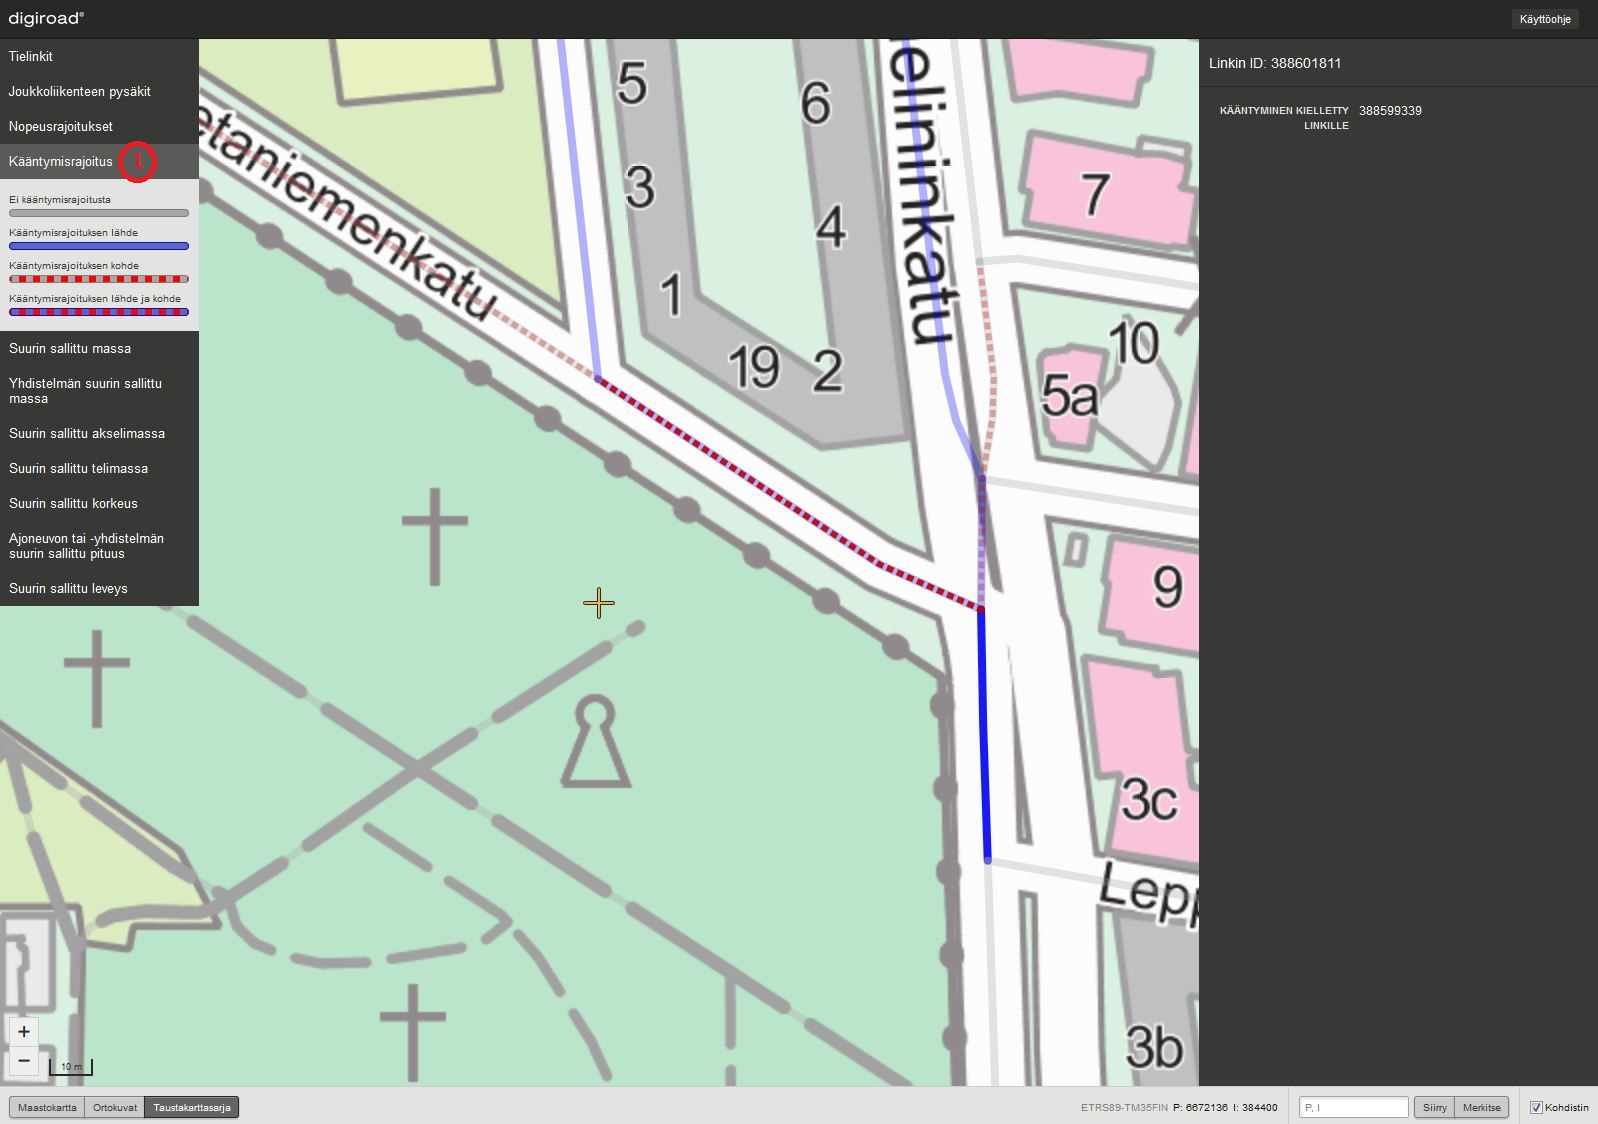
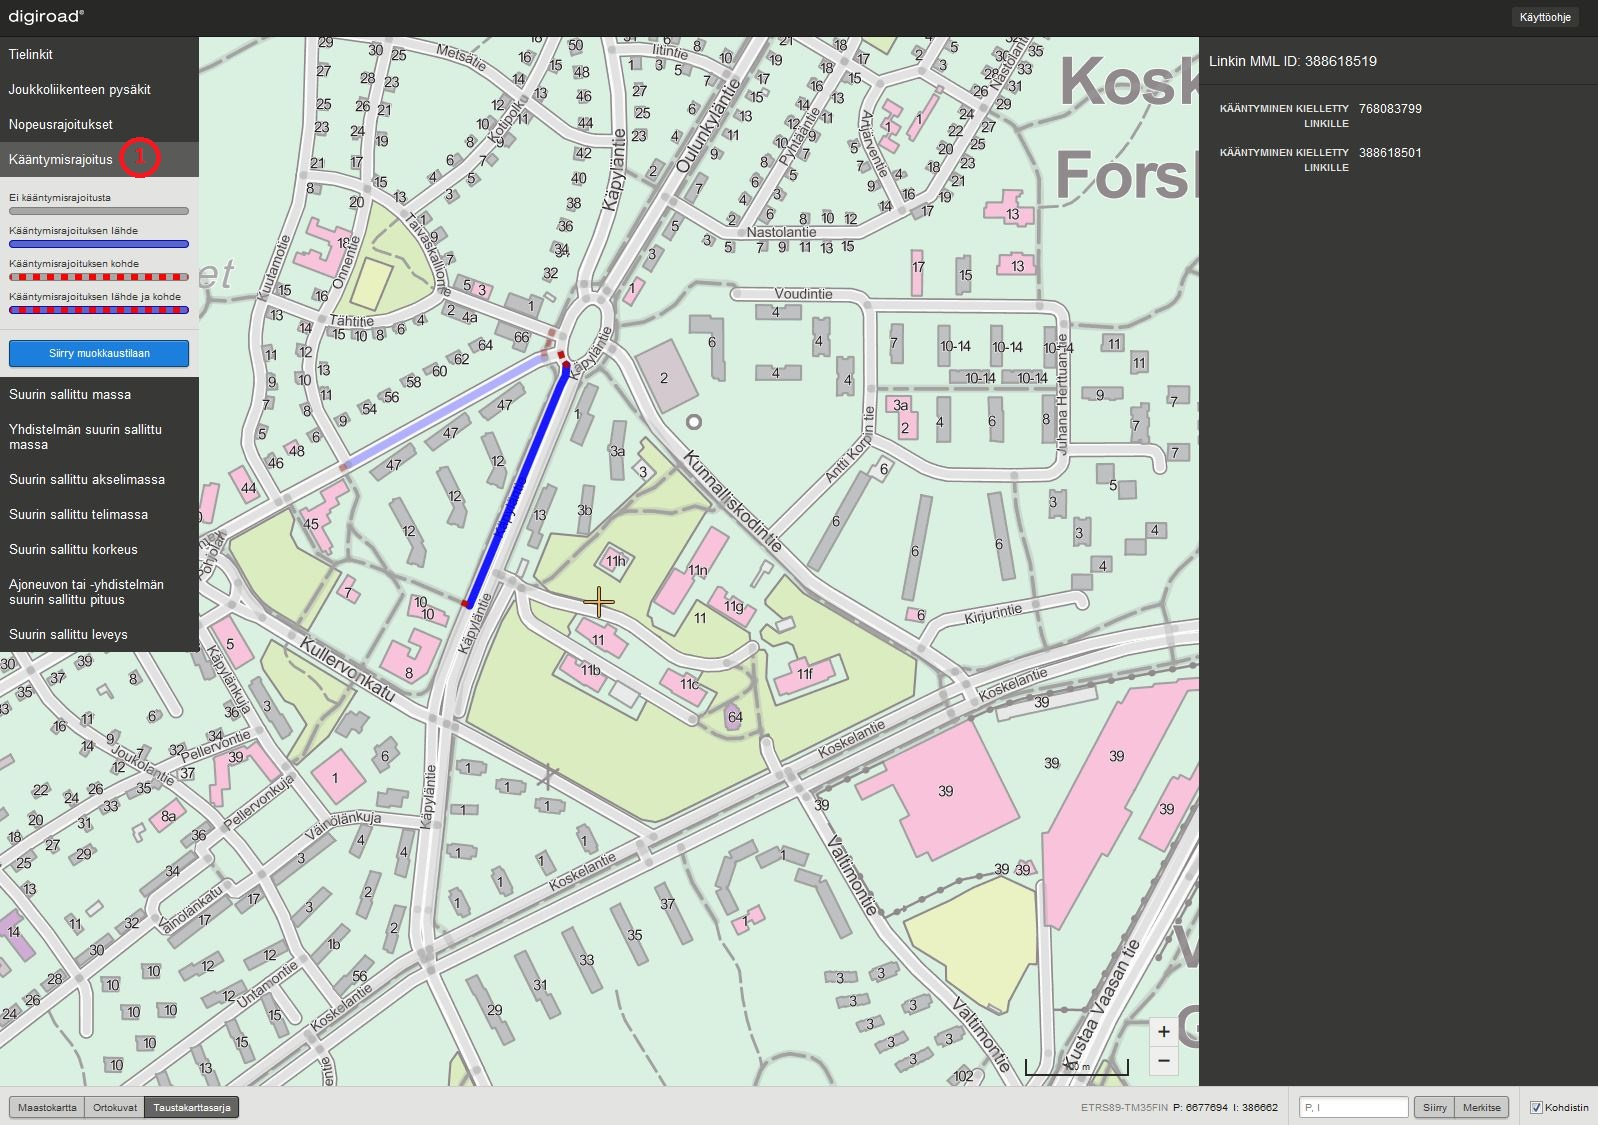
update manual

diff --git a/UI/manual/index.md b/UI/manual/index.md
@@ -73,10 +73,17 @@ http://www.digiroad.fi/
 Pys&auml;kkeihin liittyv&auml;t asiat:
 pysakit@digiroad.fi
 
-1.2 Usein kysytyt kysymykset
------------------------------
+1.2 Usein kysytyt kysymykset ja ongelmatilanteet
+------------------------------------------------
 
 Digiroad 2 -sovelluksen k&auml;yt&ouml;n usein kysytyt kysymykset on koottu Digiroad-sivustolle. Usein kysyttyihin kysymyksiin p&auml;&auml;set [t&auml;&auml;lt&auml;.](http://www.digiroad.fi/yllapito/fi_FI/pysakkiohjeet/ )
+
+####Ongelmatilanteet#####
+
+Sovelluksen toimiessa virheellisesti (esim. kaikki aineistot eiv&auml;t lataudu oikein) toimi seuraavasti:
+
+1. Lataa sivu uudelleen n&auml;pp&auml;imist&ouml;n F5-painikkeella.
+2. Jos sivun lataaminen uudelleen ei korjaa ongelmaa, ota yhteytt&auml; DR2-operaattoriin: info@digiroad.fi 
 
 2. Kirjautuminen Digiroad-sovellukseen
 --------------------------------------
@@ -305,7 +312,7 @@ _Nopeusrajoitusten visualisointi._
 
 Yksitt&auml;isen k&auml;&auml;ntymisrajoituksen voi valita klikkaamalla kartalta sen geometriaa.  Valittu k&auml;&auml;ntymisrajoitus (4) korostuu kartalla ja sen ominaisuustiedot avautuvat ominaisuustieton&auml;kym&auml;&auml;n (6).
 
-![K&auml;&auml;ntymisrajoituksen visualisointi] (k44.JPG)
+![K&auml;&auml;ntymisrajoituksen visualisointi](k44.JPG)
 
 _K&auml;&auml;ntymisrajoituksen tietojen katselu._
 
@@ -547,12 +554,32 @@ Uusi nopeusrajoitus tallennetaan Tallenna-painikkeesta. Tallentamisen j&auml;lke
 
 Nopeusrajoituksen katkaisemisen voi perua Peruuta-Painikkeesta, joka palauttaa alkuper&auml;isen nopeusrajoituksen voimaan. 
 
-5.4 Suurin sallittu -valinta
+5.4 K&auml;&auml;ntymisrajoitukset
+----------------------------------
+
+5.4.1 K&auml;&auml;ntymisrajoitusten muokkaus
+---------------------------------------------
+
+K&auml;&auml;ntymisrajoituksia muokataan muokkaustilassa. Muokattava kohde valitaan klikkaamalla sen geometriaa (4). Tietoja muokataan ominaisuustieton&auml;kym&auml;ss&auml; (6). Muutokset tallennetaan painamalla Tallenna-painiketta (8). Ennen Tallenna-painikkeen painamista muutokset voi peruuttaa painamalla Peruuta-painiketta (9). Tallenna- ja Peruuta -painikkeet eiv&auml;t ole aktiivisina, jos muutoksia ei ole tehty. Jos muutoksia on tehty eik&auml; niit&auml; ole tallennettu tai peruutettu ja siirryt&auml;&auml;n pois painorajoituksen valinnasta, sovellus antaa muutos-dialogin. Muutos-dialogi kertoo k&auml;ytt&auml;j&auml;lle, ett&auml; muutoksia on tehty ja ne tulee tallentaa tai peruuttaa ennen kuin voi jatkaa.
+
+![K&auml;&auml;ntymisrajoitusten muokkaus.](k28.jpg)
+
+_K&auml;&auml;ntymisrajoitusten muokkaus._
+
+####Uuden k&auml;&auml;ntymisrajoituksen lis&auml;&auml;minen####
+
+Uusi k&auml;&auml;ntymisrajoitus lis&auml;t&auml;&auml;n valitsemalla kartalta se tielinkki, joka on k&auml;&auml;ntymisrajoituksen l&auml;hde. Sivun oikeaan laitaan avautuu ominaisuustieton&auml;kym&auml;, jossa on n&auml;kyviss&auml; valitulta tielinkilt&auml; l&auml;htev&auml;t tielinkit. Ominaisuustieton&auml;kym&auml;st&auml; valitaan ne tielinkit, joille valitulta tielinkilt&auml; ei saa k&auml;&auml;nty&auml;. Valitsemalla k&auml;&auml;ntymisrajoituksen kohde uusi k&auml;&auml;ntymisrajoitus visualisoituu kartalle.
+ 
+####Uuden k&auml;&auml;ntymisrajoituksen poistaminen####
+
+K&auml;&auml;ntymisrajoituksen voi poistaa valitsemalla sen kartalta. Ominaisuustieton&auml;kym&auml;&auml;n avautuu k&auml;&auml;ntymisrajoituksen kohteet. Poistamalla valinnan kaikista k&auml;&auml;ntymisrajoituksen kohteista ja tallentamalla, k&auml;&auml;ntymisrajoitus poistuu.
+
+5.5 Suurin sallittu -valinta
 ----------------------------
 
 Suurin sallittu -valintoja ovat: suurin sallittu massa, yhdistelm&auml;n suurin sallittu massa, suurin sallittu akselimassa, suurin sallittu telimassa, suurin sallittu korkeus, ajoneuvon- tai yhdistelm&auml;n suurin sallittu pituus ja suurin sallittu leveys.
 
-5.4.1 Suurin sallittu -valinnan ominaisuustietojen muokkaus
+5.5.1 Suurin sallittu -valinnan ominaisuustietojen muokkaus
 ----------------------------------------------------------
 
 Toistaiseksi suurin sallittu -valintoja voi muokata vain operaattorik&auml;ytt&auml;j&auml;. Muilla k&auml;ytt&auml;jill&auml; ei ole muokkaustilaa k&auml;yt&ouml;ss&auml;&auml;n.
@@ -565,7 +592,7 @@ Huom! Rajoituksen arvokent&auml;ss&auml; muiden kuin numeroarvojen tallentaminen
 
 _Suurin sallittu -valinnan muokkaus._
 
-5.4.2 Suurin sallittu -kohteen poistaminen
+5.5.2 Suurin sallittu -kohteen poistaminen
 -------------------------------------------
 
 Tielinkin suurin sallittu -kohde poistetaan ominaisuustieton&auml;kym&auml;ss&auml; (6) valitsemalla Rajoitus-kohdasta "Ei rajoitusta".
@@ -574,7 +601,7 @@ Tielinkin suurin sallittu -kohde poistetaan ominaisuustieton&auml;kym&auml;ss&au
 
 _Suurin sallittu -kohteen poistaminen._
 
-5.4.3 Uuden suurin sallittu -kohteen lis&auml;&auml;minen
+5.5.3 Uuden suurin sallittu -kohteen lis&auml;&auml;minen
 -----------------------------------------------------------
 
 Tielinkille voi lis&auml;t&auml; suurin sallittu -kohteen valitsemalla sen geometrian (4) Suurin sallittu -muokkaustilassa. Ominaisuustieton&auml;kym&auml;&auml;n (6) avautuu tielinkin suurin sallittu -kohteen tiedot. Valitaan "Rajoitus" ja sy&ouml;tet&auml;&auml;n suurin sallittu arvo sy&ouml;tekentt&auml;&auml;n. Suurin sallittu arvo tallennetaan painamalla Tallenna (8). Uuden suurin sallittu -kohteen lis&auml;&auml;misen voi perua Peruuta-painikkeella.
@@ -583,7 +610,7 @@ Tielinkille voi lis&auml;t&auml; suurin sallittu -kohteen valitsemalla sen geome
 
 _Suurin sallittu -kohteen lis&auml;&auml;minen._
 
-5.4.4 Suurin sallittu -kohteen katkaisu
+5.5.4 Suurin sallittu -kohteen katkaisu
 ----------------------------------------
 
 Rajoituksen voi jakaa kahteen osaan leikkausty&ouml;kalulla (1). Siten leikkausty&ouml;kalun avulla voi m&auml;&auml;ritell&auml; lyhyit&auml; rajoituksia poistamalla voimasta katkaisussa j&auml;ljelle j&auml;&auml;neit&auml; rajoituksia. Leikkausty&ouml;kalulla klikataan rajoituksen geometriasta kohtaa, josta rajoitus halutaan katkaista. Rajoituksen geometrian p&auml;&auml;ll&auml; ty&ouml;kalu n&auml;kyy ristin&auml;, jotta tarkka katkaisukohta on helppo m&auml;&auml;ritt&auml;&auml; (2). 
